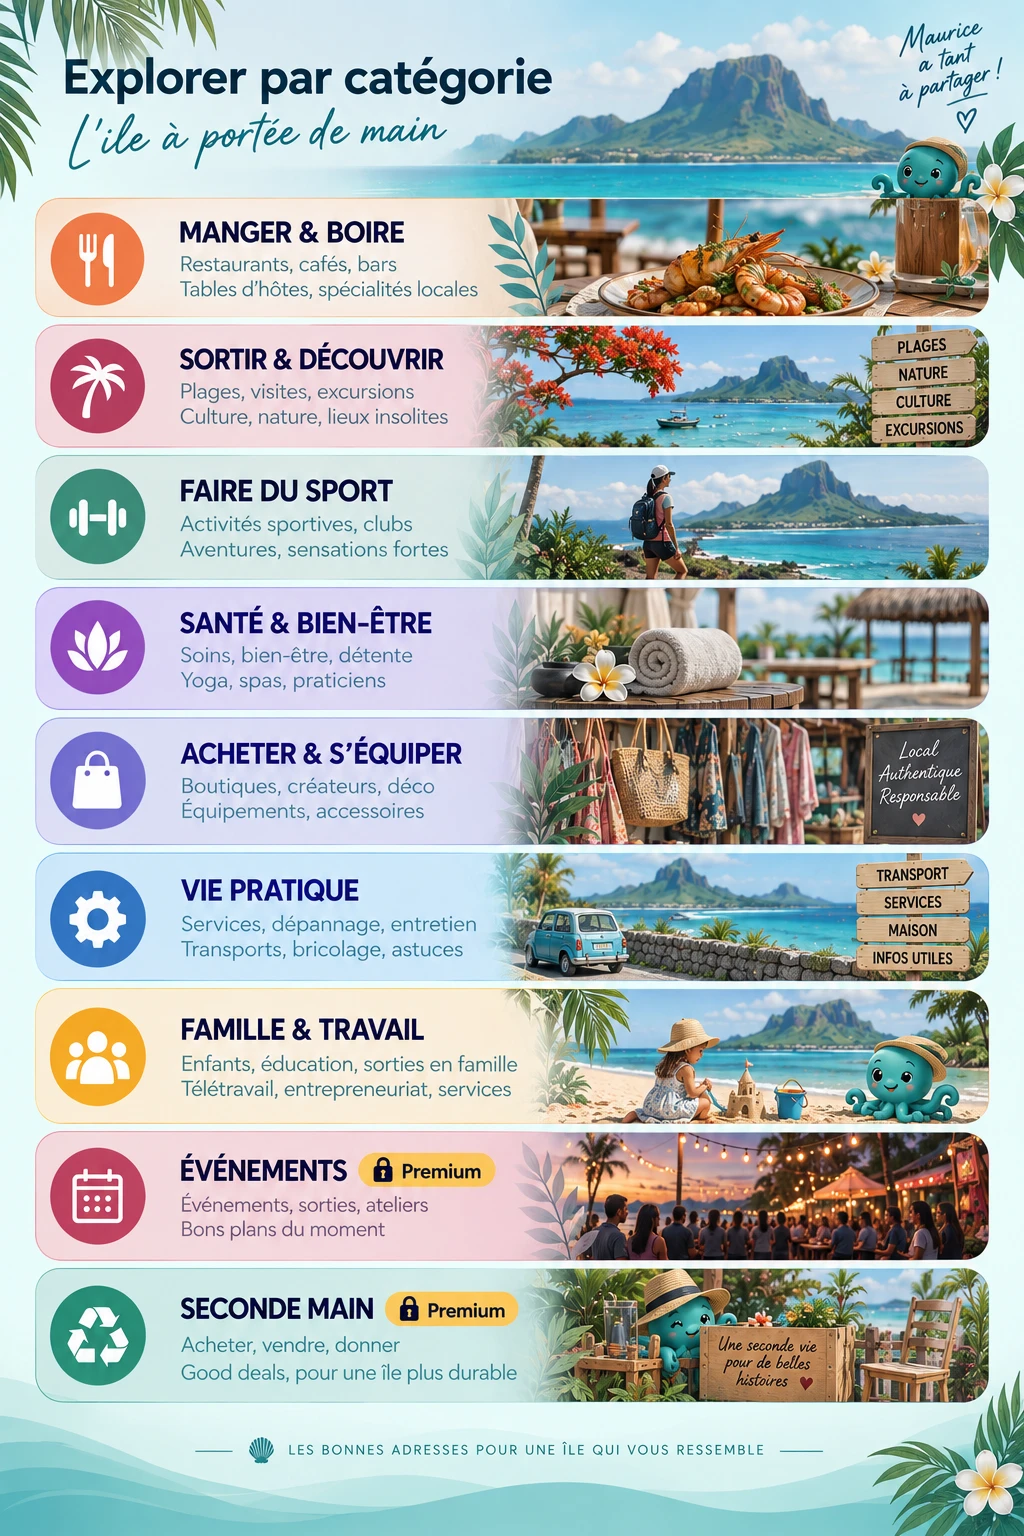
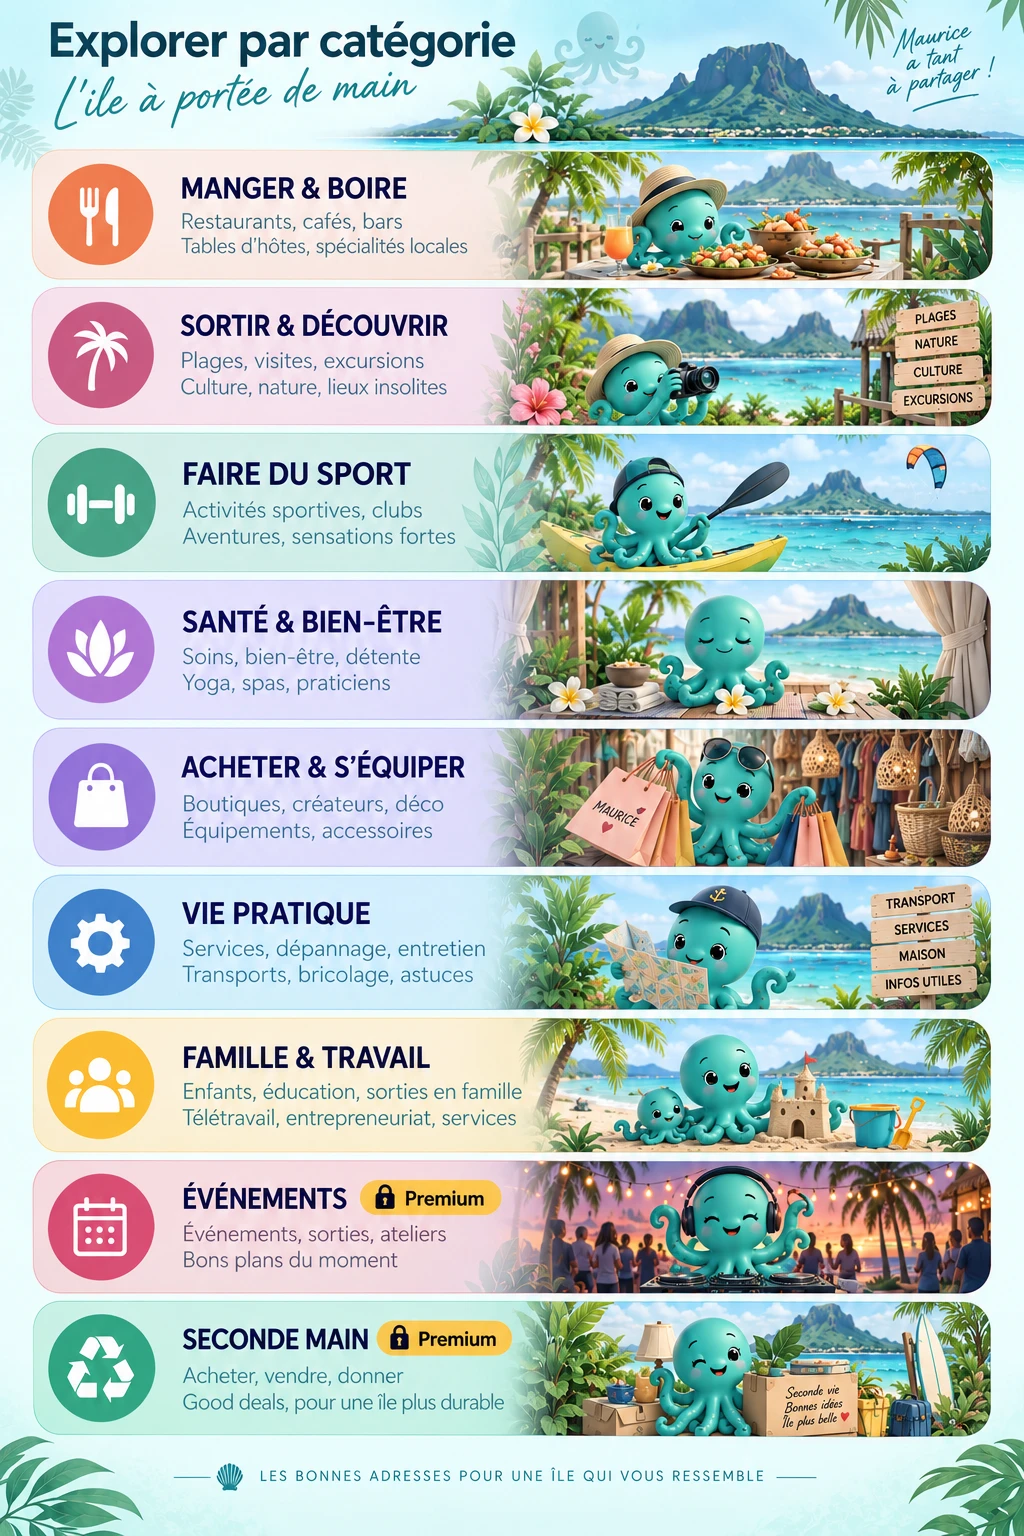
Agrandit les lignes catégories et adoucit encore les couleurs
Nouvelle version de la planche fournie par la cliente, recadrée plus
étroitement (moins de photo à droite) pour que l'image, étirée en pleine
largeur, paraisse nettement plus haute/grande. Couleurs encore adoucies
(saturate .72 → .55). Zones cliquables recalculées pour ce nouveau
recadrage.

diff --git a/web/app/DirectoryClient.tsx b/web/app/DirectoryClient.tsx
@@ -173,21 +173,23 @@ const COMMON_HOME_CATEGORIES = CATEGORIES.filter((c) =>
 
 // Écran « Explorer par catégorie » : visuel unique (planche fournie par la
 // cliente), recadré pour ne garder que les 9 lignes catégories — sans
-// l'encart de titre du haut ni le bandeau de fin (cf.
-// public/explorer-categories-rows.webp, recadrage de explorer-categories.webp
-// entre y=180 et y=1404 sur les 1536px d'origine). Chaque ligne est cliquable
-// via une zone invisible positionnée en % sur l'image. Coordonnées
-// recalculées pour ce recadrage (1024×1224).
+// l'encart de titre du haut ni le bandeau de fin, et resserré horizontalement
+// (moins de photo à droite) pour qu'une fois étiré en pleine largeur l'image
+// paraisse plus haute/grande (cf. public/explorer-categories-rows.webp,
+// recadrage de explorer-categories.webp : x=32-672, y=144-1437 sur les
+// 1024×1536 d'origine). Chaque ligne est cliquable via une zone invisible
+// positionnée en % sur l'image. Coordonnées recalculées pour ce recadrage
+// (640×1293).
 const EXPLORER_CATEGORIES_HOTSPOTS: { key: CategoryKey | "seconde-main"; label: string; top: number; height: number }[] = [
-  { key: "manger-boire", label: "Manger & boire", top: 0, height: 11.3 },
-  { key: "sortir-decouvrir", label: "Sortir & découvrir", top: 12.0, height: 10.0 },
-  { key: "faire-du-sport", label: "Faire du sport", top: 22.5, height: 10.3 },
-  { key: "sante-bien-etre", label: "Santé & bien-être", top: 33.3, height: 10.0 },
-  { key: "acheter-equiper", label: "Acheter & s'équiper", top: 44.1, height: 10.3 },
-  { key: "vie-pratique", label: "Vie pratique", top: 54.9, height: 10.5 },
-  { key: "famille-travail", label: "Famille & Travail", top: 66.2, height: 11.0 },
-  { key: "agenda", label: "Événements", top: 77.9, height: 10.3 },
-  { key: "seconde-main", label: "Seconde main", top: 89.0, height: 11.0 },
+  { key: "manger-boire", label: "Manger & boire", top: 0, height: 10.7 },
+  { key: "sortir-decouvrir", label: "Sortir & découvrir", top: 11.1, height: 10.7 },
+  { key: "faire-du-sport", label: "Faire du sport", top: 22.5, height: 10.7 },
+  { key: "sante-bien-etre", label: "Santé & bien-être", top: 33.9, height: 10.7 },
+  { key: "acheter-equiper", label: "Acheter & s'équiper", top: 45.2, height: 10.7 },
+  { key: "vie-pratique", label: "Vie pratique", top: 56.6, height: 10.4 },
+  { key: "famille-travail", label: "Famille & Travail", top: 67.8, height: 10.4 },
+  { key: "agenda", label: "Événements", top: 78.7, height: 10.4 },
+  { key: "seconde-main", label: "Seconde main", top: 89.6, height: 10.4 },
 ];
 
 // Agenda : peu de fiches, donc pas de liste de rubriques comme les autres
@@ -2854,7 +2856,7 @@ export default function DirectoryClient({
                   src="/explorer-categories-rows.webp"
                   alt="Explorer par catégorie"
                   className="block w-full h-auto"
-                  style={{ filter: "saturate(.72) brightness(1.02)" }}
+                  style={{ filter: "saturate(.55) brightness(1.02)" }}
                 />
                 {EXPLORER_CATEGORIES_HOTSPOTS.map((h) => (
                   <button
